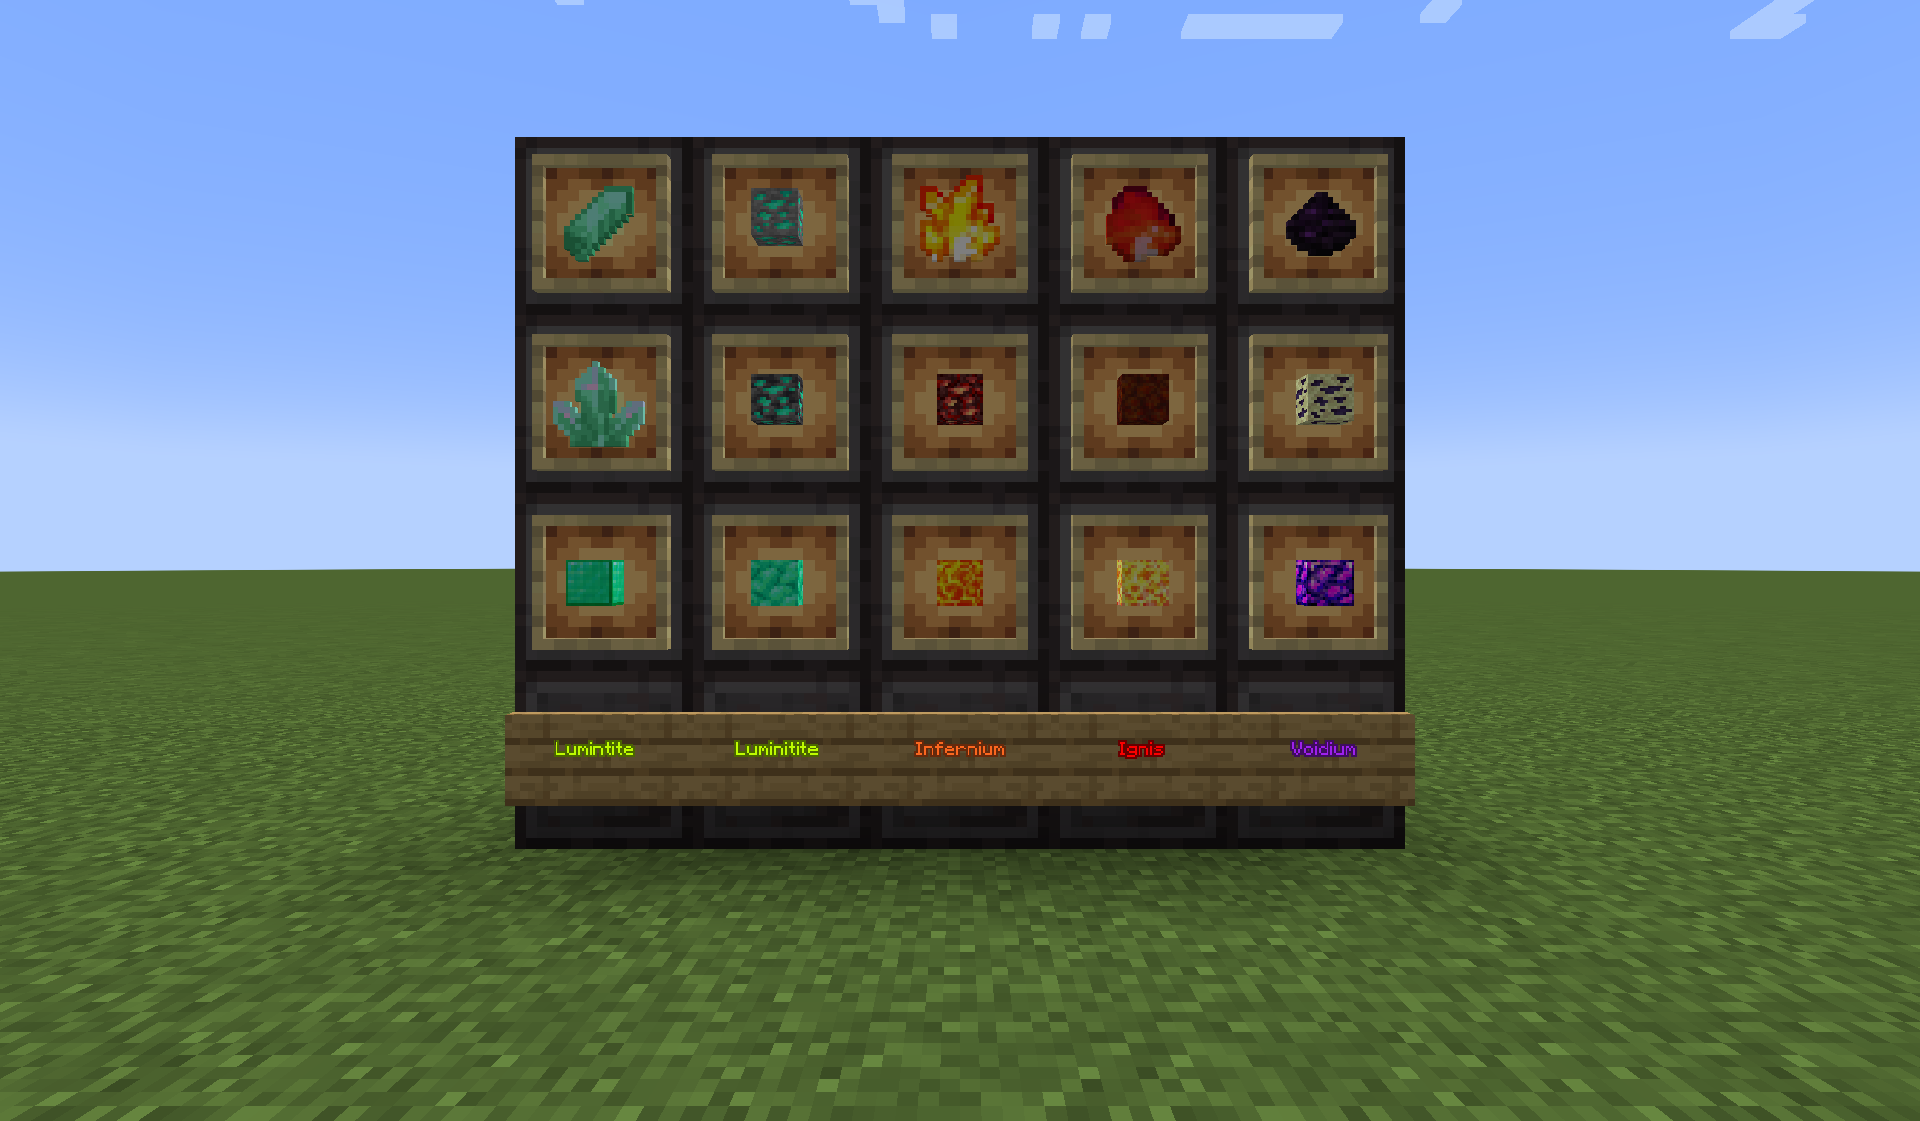
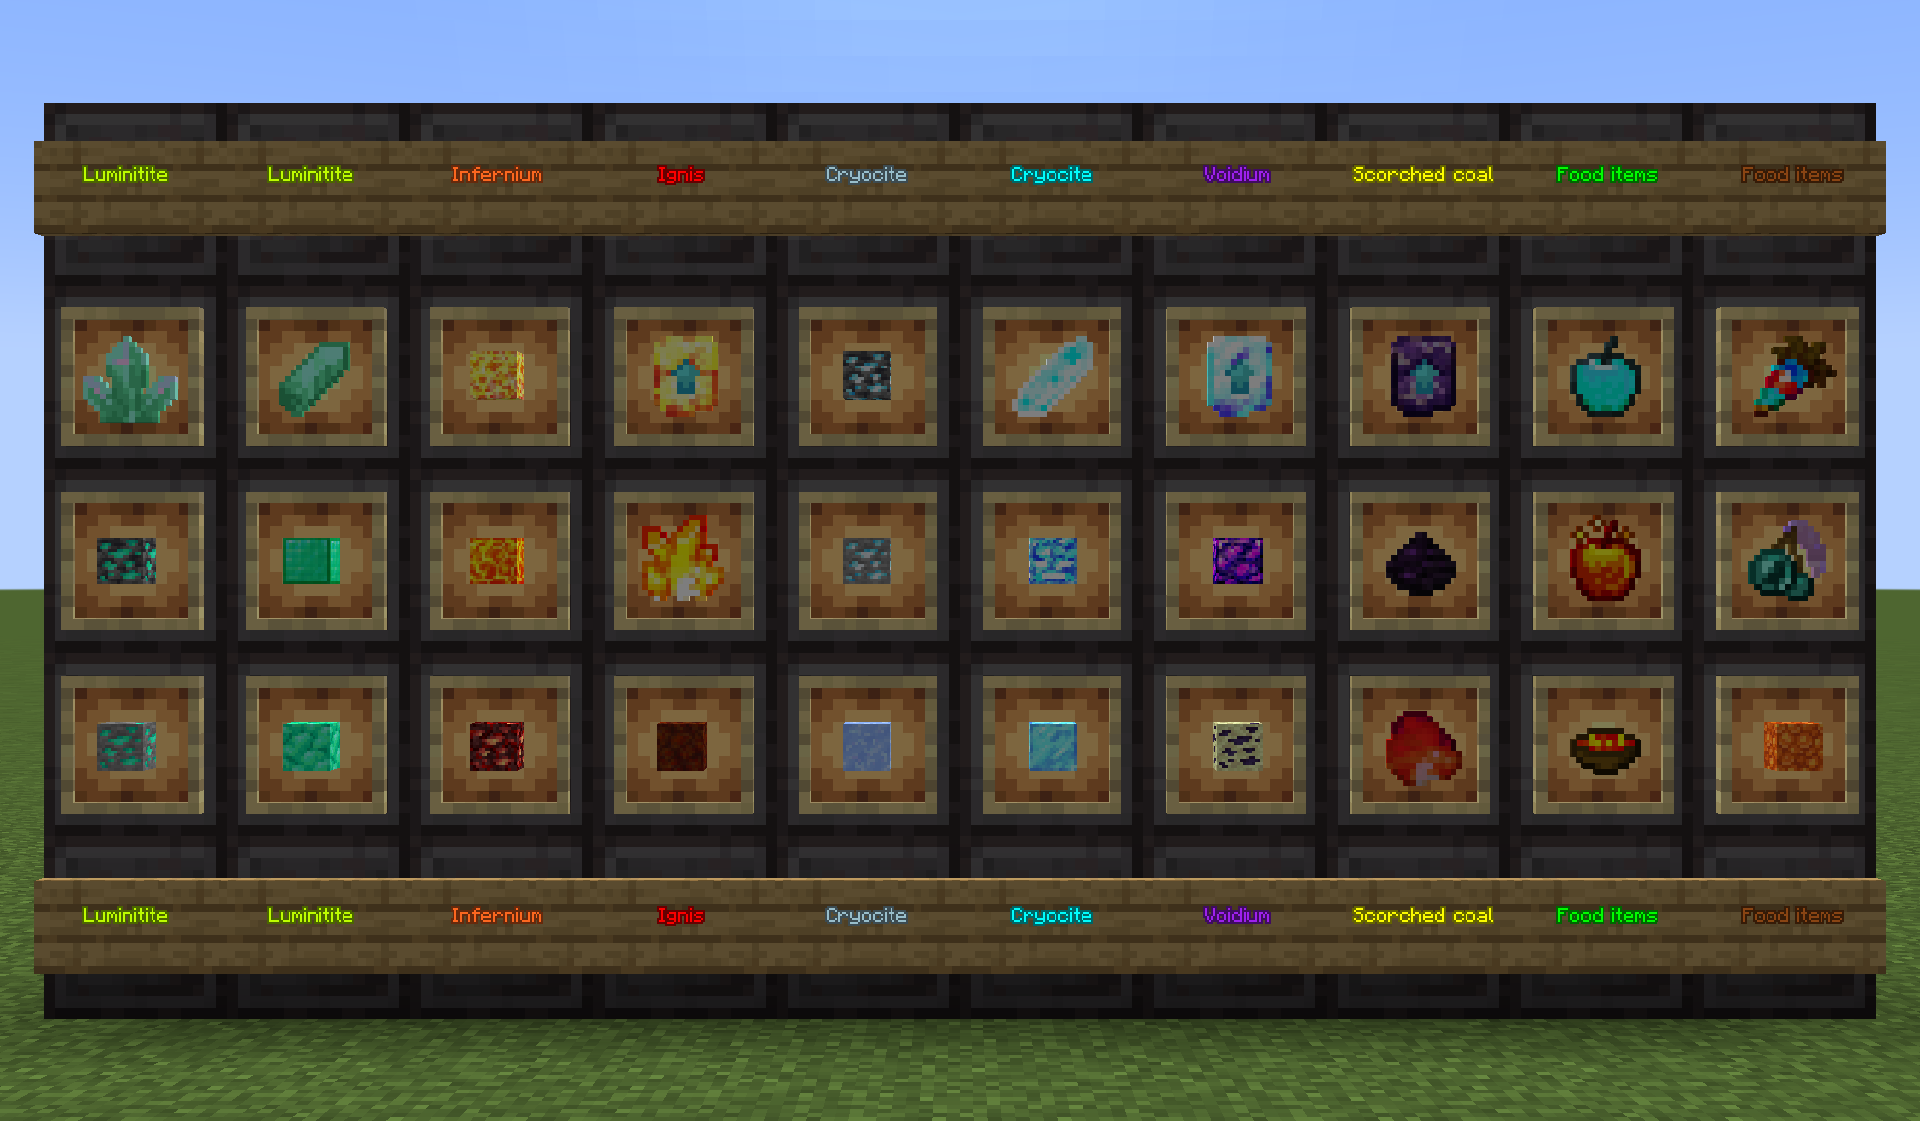
Edit README.md

diff --git a/README.md b/README.md
@@ -19,15 +19,26 @@
     <img alt="Items" src="./preview/demo_items.png">
     <img alt="Luminitite Ores" src="./preview/demo_luminitite.png">
     <img alt="Infernium Ores" src="./preview/demo_infernium.png">
+    <img alt="Ice Cryocite Ores" src="./preview/demo_cryocite.png">
     <img alt="Voidium Ores" src="./preview/demo_voidium.png">
     <br>
 </h2>
 
 <h2 align="center">Features <br></h2>
 <ul>
+    <li>New Luminitite, Infernium, Cryocite, and Voidium Ores which can be found naturally generated</li>
+    <li>Respective toolsets and armour that goes beyond the netherite tier</li>
+    <li>New food items that give special effects - some are randomised!</li>
+    <li>New efficient source of fuel: Scorched Ignis Block</li>
+</ul>
+
+<h2 align="center">To do <br></h2>
+<ul>
     <li>Add recipes ✅</li>
     <li>Add world generation ✅</li>
     <li>Add more functionality, balance stats of tools and armours 🔨</li>
+    <li>Add consumables ✅</li>
+    <li>Add new mobs! 🔨</li>
     <li>Convert block and item registries to DataGens (tried this once and gave up after like 3 hours due to lack of documentation) ❌</li>
 </ul>
 
